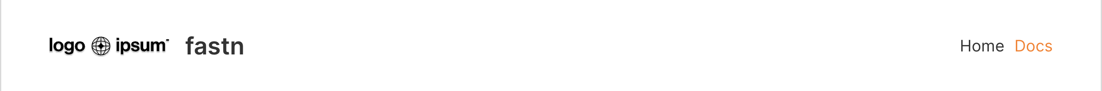
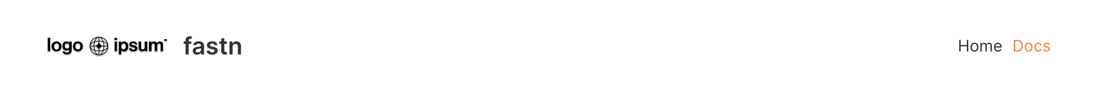
Added README.md image

Changed region(s): [[0.031, 0.3956, 0.2477, 0.6154], [0.867, 0.4396, 0.9599, 0.5714]]

diff --git a/README.md b/README.md
@@ -13,7 +13,10 @@ Here's an example of how the Header Component might look when rendered:
 
 ### Header
 
+Sample 1:
 ![header-1.png](.github/assets/header-1.png)
+
+Sample 2:
 ![header-2.png](.github/assets/header-2.png)
 
 
